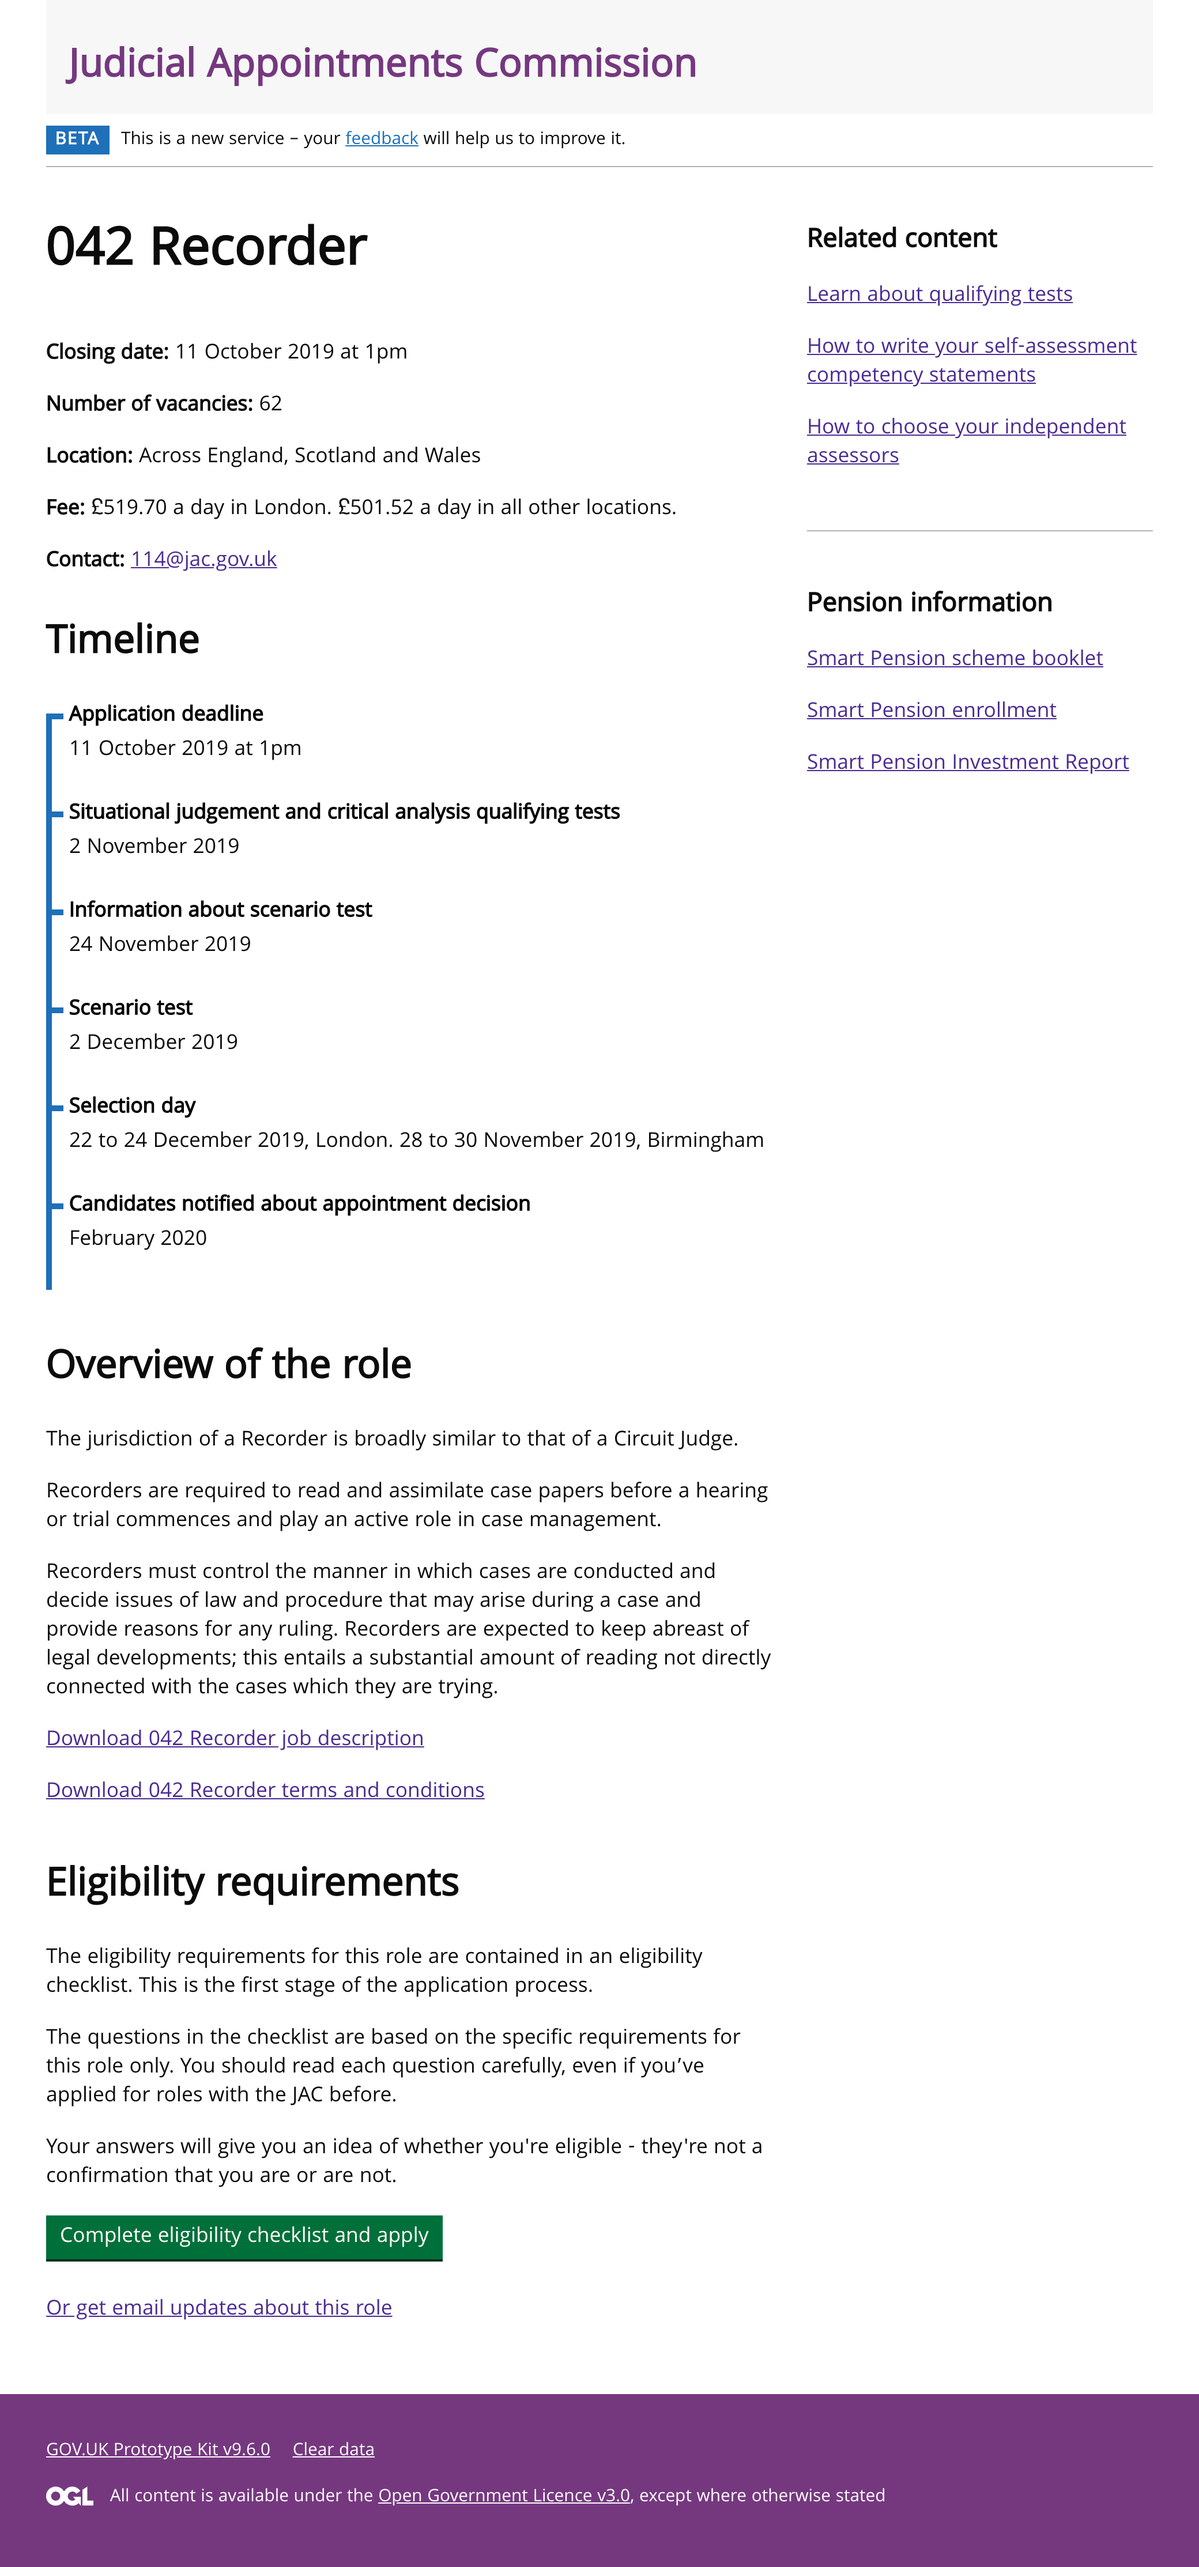
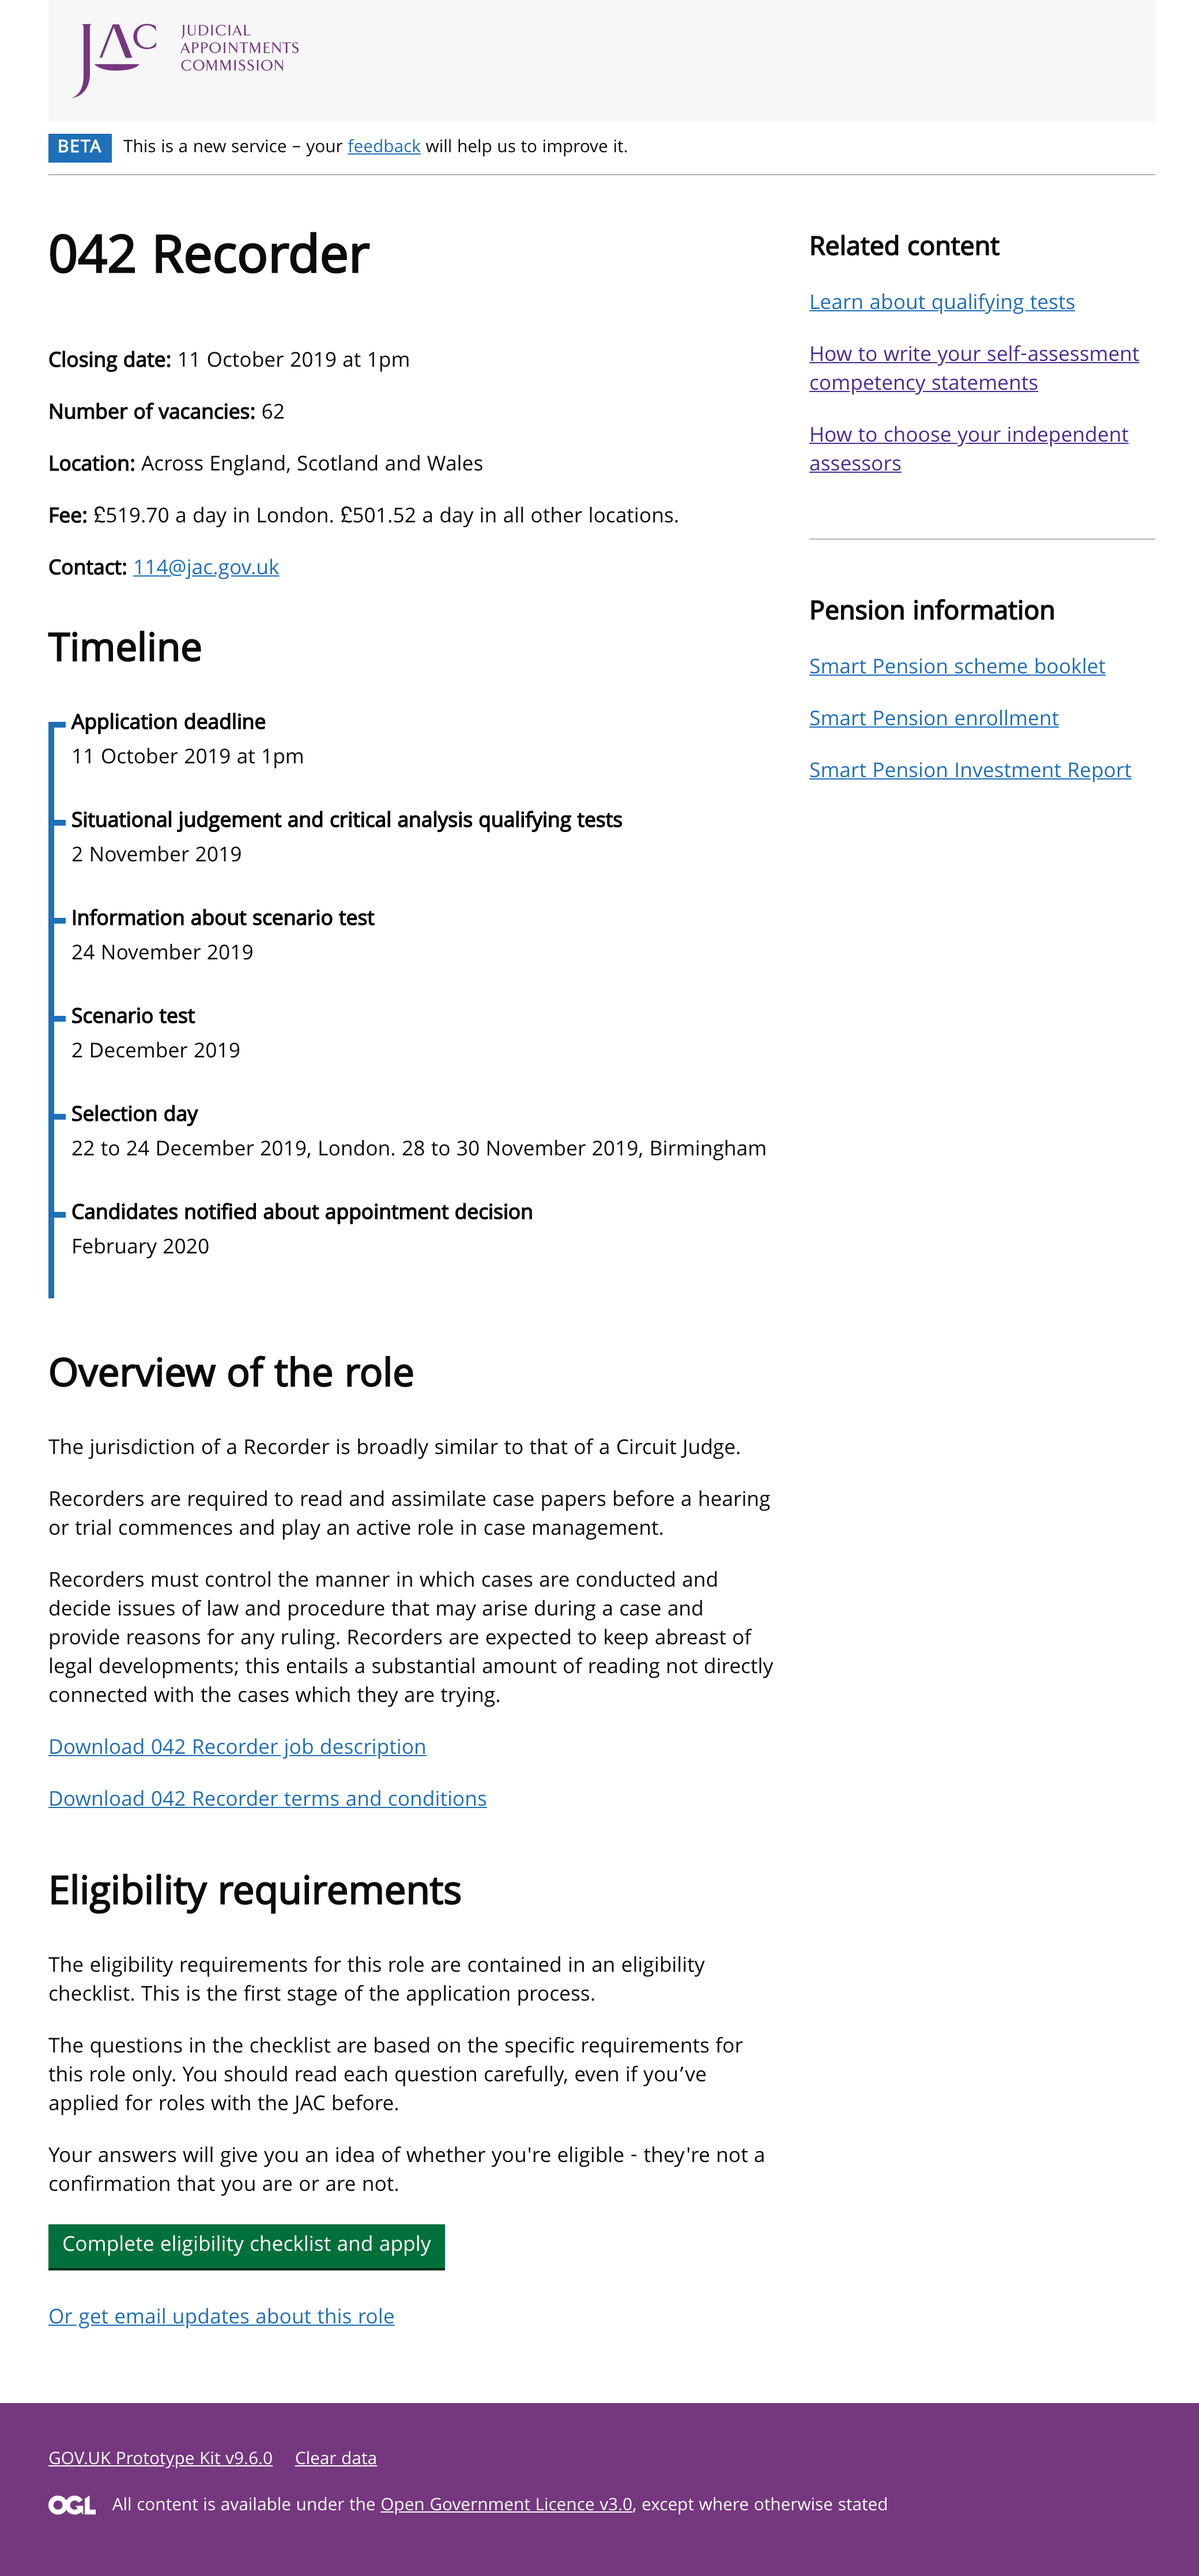
Updates to prototype

diff --git a/app/views/includes/header.html b/app/views/includes/header.html
@@ -1,11 +1,6 @@
 <div class="header-background">
-	<h1 class="govuk-heading-l govuk-!-margin-bottom-2"><a href="/" class="govuk-link govuk-link--no-visited-state">Judicial Appointments Commission</a></h1>
-	<!-- <div class="govuk-phase-banner">
-		<p class="govuk-phase-banner__content">
-			<strong class="govuk-tag govuk-phase-banner__content__tag">beta</strong>
-			<span class="govuk-phase-banner__text">This is a new service – your <a class="govuk-link govuk-link--no-visited-state" href="#">feedback</a> will help us to improve it.</span>
-		</p>
-	</div> -->
+	<!-- <h1 class="govuk-heading-l govuk-!-margin-bottom-2"><a href="/" class="govuk-link govuk-link--no-visited-state">Judicial Appointments Commission</a></h1> -->
+	<a href="/"><img src="/public/images/jac-logo.svg" /></a>
 </div>
 <div class="govuk-phase-banner">
 	<p class="govuk-phase-banner__content">

diff --git a/app/assets/sass/unbranded.scss b/app/assets/sass/unbranded.scss
@@ -29,9 +29,8 @@ $govuk-canvas-background-colour: $govuk-body-background-colour;
 
 .header-background {
     background-color: #f7f7f7;
-	// padding: 40px 10px 0 10px;
-	padding: 40px 10px 10px 20px;
-	// border-bottom: 1px solid #b1b4b6;
+	// padding: 40px 10px 10px 20px;
+	padding: 20px 10px 10px 20px;
 	margin-top: 0 !important;
 }
 
@@ -50,10 +49,6 @@ $govuk-canvas-background-colour: $govuk-body-background-colour;
 
 .header-background span {
 	color: #753880 !important;
-}
-
-.govuk-phase-banner {
-	// border-bottom: 0;
 }
 
 .img-border {
